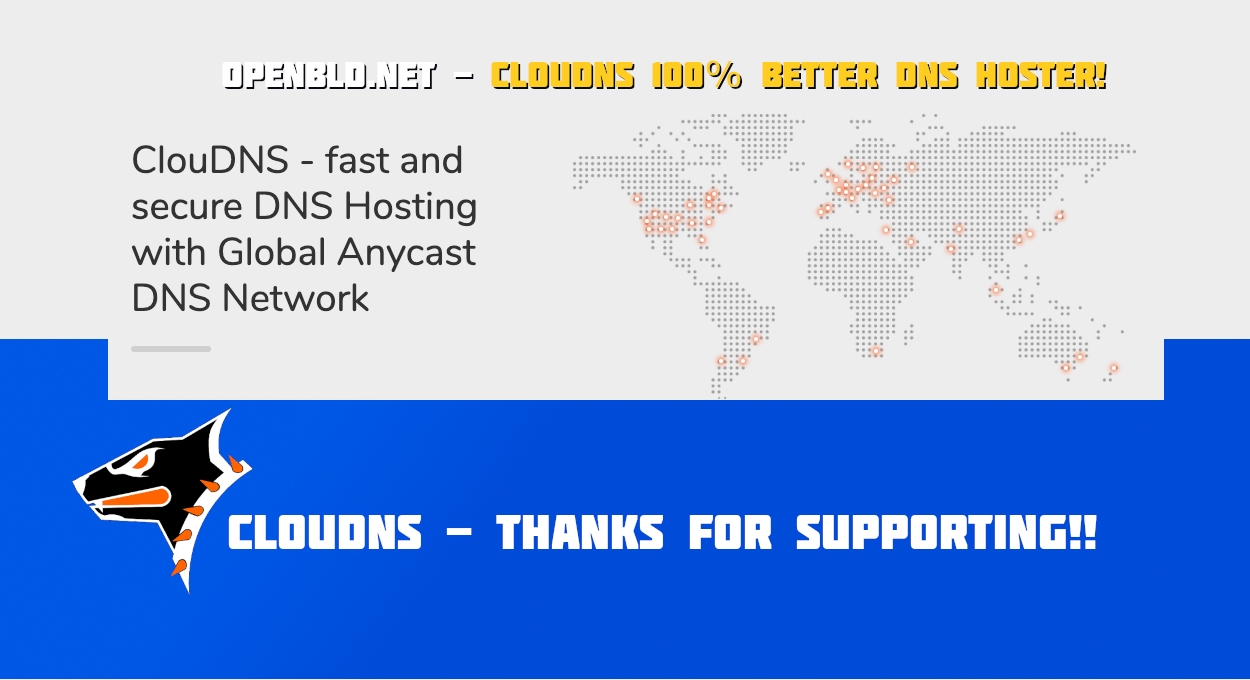
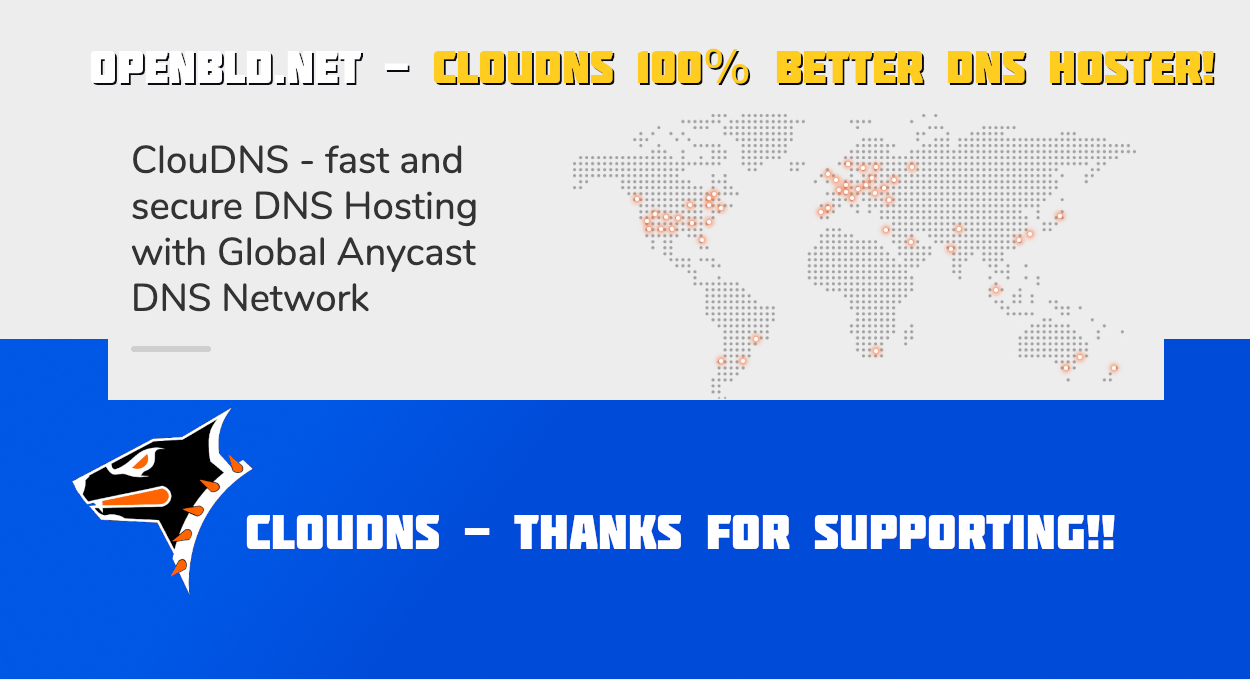
+ 🤝 ClouDNS - Best DNS Hosting Service. Thanks

Changed region(s): [[0.0624, 0.0618, 0.9984, 0.1544], [0.156, 0.7412, 0.9048, 0.8338]]

diff --git a/blog/openbld-updates/2024/2024-05-13-openbld-and-cloudns--2024.md b/blog/openbld-updates/2024/2024-05-13-openbld-and-cloudns--2024.md
@@ -1,32 +1,33 @@
 ---
-slug: openbld.net-urlhaus-statistics-h1-2024
-title: 🛡OpenBLD.net Outperformed AdGuard, Cloudflare, Quad9 in blocking malware domains
-description: OpenBLD.net outperformed AdGuard, Cloudflare, Quad9 in blocking malware domains!
+slug: cloudns-openbld-supports-2024
+title: 🤝 ClouDNS OpenBLD.net support'24
+description: ClouDNS - Best DNS service. Supported OpenBLD.net in 2024 year.
 authors: [sysadminkz]
-tags: [openbld, updates, urlhaus]
+tags: [openbld, cloudns, support, 2024]
 ---
 
-![JetBrains OSS OpenBLD.net support](images/openbld.net-urlhaus-statistics-h1-2024.jpeg)
+![ClouDNS OpenBLD.net support](images/openbld-and-cloudns-2024.jpeg)
 
-OpenBLD.net outperformed AdGuard, Cloudflare, Quad9 in blocking malware domains!
+[ClouDNS.net](https://www.cloudns.net/) - fast and secure DNS Hosting service, supported OpenBLD.net in the year 2024! 🤝
 
-### Background
+### ClouDNS.net Experience
 
-Some time ago, OpenBLD.net was [added](2024-03-11-openbld-abuse-ch-integration.md) to the [URLhaus](https://urlhaus.abuse.ch/) project. URLhaus is a project operated 
-by [abuse.ch](https://abuse.ch/) with the goal of sharing and preventing malicious URLs that are being used for malware distribution.
+I've been using ClouDNS.net for the OpenBLD.net project for several years now. Prior to this, I've tried all the popular 
+and well-known DNS services worldwide, and with 100% confidence, I want to say: 
+ClouDNS.net is the best DNS hosting provider I've ever encountered.
 
-The ecosystem of the service, based on the [philosophy](/docs/intro/#philosophy) of blocking internet noise, has demonstrated excellent protection against malicious domains and intrusive ads. 💪
+### Key Features
 
-### What now
+- Fast
+- Reliable
+- Geographically distributed
+- Includes built-in [monitoring](https://www.cloudns.net/monitoring/)
+- [Free SSL](https://www.cloudns.net/wiki/article/441/) certificates
 
-According to URLhaus statistics, OpenBLD.net surpasses giants like AdGuard, Cloudflare, and Quad9 in blocking malware and unwanted domains. 🛡
+### Stability
 
-OpenBLD.net doesn't just offer protection - it creates a sense of security for your online space.
+I especially want to highlight the stability of ClouDNS. Throughout the entire period of usage, there hasn't been a single outage, making ClouDNS the perfect choice for OpenBLD.
 
-Your [donations](/docs/donation/) and [sponsorship](/docs/sponsorship) can help us become even better and ensure the stable development of the service.
+I highly recommend ClouDNS to anyone looking for a high-quality DNS service.
 
-### What's next?
-
-Join OpenBLD.net today, and together we'll make the internet safer and quieter!
-
-Peace ✌
+ClouDNS.net — Thank you for your work! ✌
